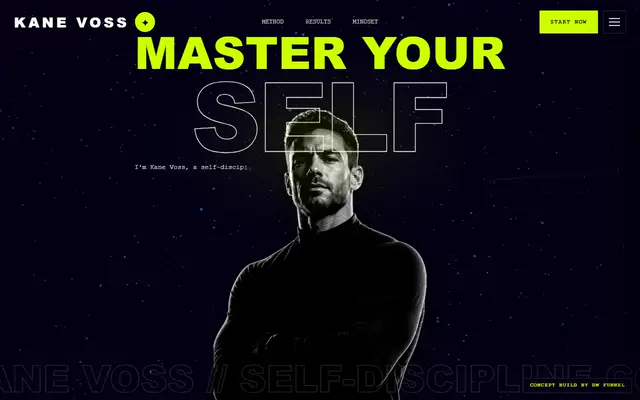
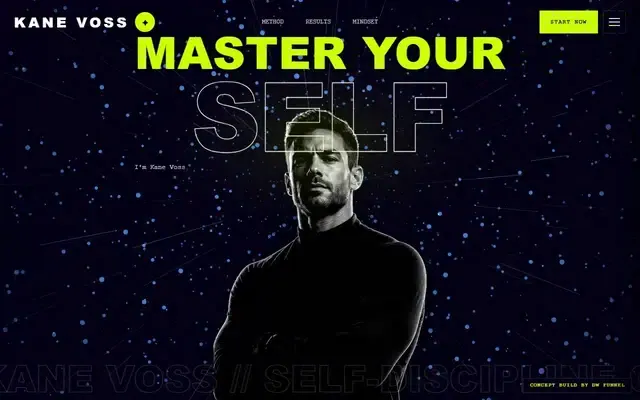
perf: poster-first work grid with max 3 live WebP loops, fix Kane Voss motion
Eight always-on animated previews still fought the page. Cards now start as posters and only the nearest three animate. Kane Voss capture uses a brighter preview mode so the particle field actually reads.

diff --git a/cinema.html b/cinema.html
@@ -1,4 +1,4 @@
-<!DOCTYPE html>
+<!DOCTYPE html>
 <html lang="en">
 <head>
   <meta charset="UTF-8" />
@@ -19,7 +19,7 @@
   <link rel="preload" href="assets/fonts/space-mono-latin-400.woff2" as="font" type="font/woff2" crossorigin />
   <link rel="preload" href="assets/fonts/space-mono-latin-700.woff2" as="font" type="font/woff2" crossorigin />
   <link rel="preload" href="assets/images/hero/poster-1280.webp" as="image" type="image/webp" />
-  <link rel="stylesheet" href="assets/css/cinema.css?v=85" />
+  <link rel="stylesheet" href="assets/css/cinema.css?v=86" />
 </head>
 <body>
   <canvas class="webgl-atmosphere" id="webgl-atmosphere" aria-hidden="true"></canvas>
@@ -165,25 +165,25 @@
       <div class="work-grid" aria-label="Selected work">
             <figure class="work-card">
               <a class="work-card__link" href="/demos/auren.html" target="_blank" rel="noopener" aria-label="Open the AUREN live demo in a new tab">
-                <div class="work-card__screen ws--embed"><span class="ws-chrome"><i></i><i></i><i></i></span><span class="work-card__live">Live site</span><img class="ws-embed-preview" src="/assets/demos/previews/auren.webp" data-poster="/assets/demos/previews/auren-poster.webp" alt="" width="640" height="400" loading="lazy" decoding="async" aria-hidden="true"></div>
+                <div class="work-card__screen ws--embed"><span class="ws-chrome"><i></i><i></i><i></i></span><span class="work-card__live">Live site</span><img class="ws-embed-preview" src="/assets/demos/previews/auren-poster.webp" data-anim="/assets/demos/previews/auren.webp" data-poster="/assets/demos/previews/auren-poster.webp" alt="" width="640" height="400" loading="lazy" decoding="async" aria-hidden="true"></div>
               </a>
               <figcaption><strong>AUREN</strong><span>Haute Horlogerie &middot; Brand Site</span><em>A cinematic hero that earns the price tag.</em></figcaption>
             </figure>
             <figure class="work-card">
               <a class="work-card__link" href="/demos/harbour.html" target="_blank" rel="noopener" aria-label="Open the Harbour Smile Dental Studio live demo in a new tab">
-                <div class="work-card__screen ws--embed"><span class="ws-chrome"><i></i><i></i><i></i></span><span class="work-card__live">Live site</span><img class="ws-embed-preview" src="/assets/demos/previews/harbour.webp" data-poster="/assets/demos/previews/harbour-poster.webp" alt="" width="640" height="400" loading="lazy" decoding="async" aria-hidden="true"></div>
+                <div class="work-card__screen ws--embed"><span class="ws-chrome"><i></i><i></i><i></i></span><span class="work-card__live">Live site</span><img class="ws-embed-preview" src="/assets/demos/previews/harbour-poster.webp" data-anim="/assets/demos/previews/harbour.webp" data-poster="/assets/demos/previews/harbour-poster.webp" alt="" width="640" height="400" loading="lazy" decoding="async" aria-hidden="true"></div>
               </a>
               <figcaption><strong>Harbour Smile</strong><span>Cosmetic Dentistry &middot; Landing Page</span><em>A boutique clinic that unfolds on arrival.</em></figcaption>
             </figure>
             <figure class="work-card">
               <a class="work-card__link" href="/demos/aurelia.html" target="_blank" rel="noopener" aria-label="Open the Aurelia live demo in a new tab">
-                <div class="work-card__screen ws--embed"><span class="ws-chrome"><i></i><i></i><i></i></span><span class="work-card__live">Live site</span><img class="ws-embed-preview" src="/assets/demos/previews/aurelia.webp" data-poster="/assets/demos/previews/aurelia-poster.webp" alt="" width="640" height="400" loading="lazy" decoding="async" aria-hidden="true"></div>
+                <div class="work-card__screen ws--embed"><span class="ws-chrome"><i></i><i></i><i></i></span><span class="work-card__live">Live site</span><img class="ws-embed-preview" src="/assets/demos/previews/aurelia-poster.webp" data-anim="/assets/demos/previews/aurelia.webp" data-poster="/assets/demos/previews/aurelia-poster.webp" alt="" width="640" height="400" loading="lazy" decoding="async" aria-hidden="true"></div>
               </a>
               <figcaption><strong>Aurelia</strong><span>Luxury Real Estate &middot; Website</span><em>A private house for rare addresses.</em></figcaption>
             </figure>
             <figure class="work-card">
               <a class="work-card__link" href="/demos/kanevoss.html" target="_blank" rel="noopener" aria-label="Open the Kane Voss live demo in a new tab">
-                <div class="work-card__screen ws--embed"><span class="ws-chrome"><i></i><i></i><i></i></span><span class="work-card__live">Live site</span><img class="ws-embed-preview" src="/assets/demos/previews/kanevoss.webp" data-poster="/assets/demos/previews/kanevoss-poster.webp" alt="" width="640" height="400" loading="lazy" decoding="async" aria-hidden="true"></div>
+                <div class="work-card__screen ws--embed"><span class="ws-chrome"><i></i><i></i><i></i></span><span class="work-card__live">Live site</span><img class="ws-embed-preview" src="/assets/demos/previews/kanevoss-poster.webp" data-anim="/assets/demos/previews/kanevoss.webp" data-poster="/assets/demos/previews/kanevoss-poster.webp" alt="" width="640" height="400" loading="lazy" decoding="async" aria-hidden="true"></div>
               </a>
               <figcaption><strong>Kane Voss</strong><span>Discipline Coaching &middot; Sales Funnel</span><em>A reactive particle field, always in motion.</em></figcaption>
             </figure>
@@ -193,25 +193,25 @@
             </figure>
             <figure class="work-card">
               <a class="work-card__link" href="/demos/lexis.html" target="_blank" rel="noopener" aria-label="Open the LEXIS live demo in a new tab">
-                <div class="work-card__screen ws--embed"><span class="ws-chrome"><i></i><i></i><i></i></span><span class="work-card__live">Live site</span><img class="ws-embed-preview" src="/assets/demos/previews/lexis.webp" data-poster="/assets/demos/previews/lexis-poster.webp" alt="" width="640" height="400" loading="lazy" decoding="async" aria-hidden="true"></div>
+                <div class="work-card__screen ws--embed"><span class="ws-chrome"><i></i><i></i><i></i></span><span class="work-card__live">Live site</span><img class="ws-embed-preview" src="/assets/demos/previews/lexis-poster.webp" data-anim="/assets/demos/previews/lexis.webp" data-poster="/assets/demos/previews/lexis-poster.webp" alt="" width="640" height="400" loading="lazy" decoding="async" aria-hidden="true"></div>
               </a>
               <figcaption><strong>LEXIS</strong><span>Performance Footwear &middot; Storefront</span><em>A running brand you can shop end to end.</em></figcaption>
             </figure>
             <figure class="work-card">
               <a class="work-card__link" href="/demos/verde.html" target="_blank" rel="noopener" aria-label="Open the Verde live demo in a new tab">
-                <div class="work-card__screen ws--embed"><span class="ws-chrome"><i></i><i></i><i></i></span><span class="work-card__live">Live site</span><img class="ws-embed-preview" src="/assets/demos/previews/verde.webp" data-poster="/assets/demos/previews/verde-poster.webp" alt="" width="640" height="400" loading="lazy" decoding="async" aria-hidden="true"></div>
+                <div class="work-card__screen ws--embed"><span class="ws-chrome"><i></i><i></i><i></i></span><span class="work-card__live">Live site</span><img class="ws-embed-preview" src="/assets/demos/previews/verde-poster.webp" data-anim="/assets/demos/previews/verde.webp" data-poster="/assets/demos/previews/verde-poster.webp" alt="" width="640" height="400" loading="lazy" decoding="async" aria-hidden="true"></div>
               </a>
               <figcaption><strong>Verde</strong><span>Botanical Soda &middot; Launch Site</span><em>Click in, spin the can, switch the flavor.</em></figcaption>
             </figure>
             <figure class="work-card">
               <a class="work-card__link" href="/demos/toybomb.html" target="_blank" rel="noopener" aria-label="Open the TOYBOMB live demo in a new tab">
-                <div class="work-card__screen ws--embed"><span class="ws-chrome"><i></i><i></i><i></i></span><span class="work-card__live">Live site</span><img class="ws-embed-preview" src="/assets/demos/previews/toybomb.webp" data-poster="/assets/demos/previews/toybomb-poster.webp" alt="" width="640" height="400" loading="lazy" decoding="async" aria-hidden="true"></div>
+                <div class="work-card__screen ws--embed"><span class="ws-chrome"><i></i><i></i><i></i></span><span class="work-card__live">Live site</span><img class="ws-embed-preview" src="/assets/demos/previews/toybomb-poster.webp" data-anim="/assets/demos/previews/toybomb.webp" data-poster="/assets/demos/previews/toybomb-poster.webp" alt="" width="640" height="400" loading="lazy" decoding="async" aria-hidden="true"></div>
               </a>
               <figcaption><strong>TOYBOMB</strong><span>Designer Collectibles &middot; Drop Site</span><em>Flip through the drop, watch the world recolor.</em></figcaption>
             </figure>
             <figure class="work-card">
               <a class="work-card__link" href="/demos/elowen.html" target="_blank" rel="noopener" aria-label="Open the Elowen live demo in a new tab">
-                <div class="work-card__screen ws--embed"><span class="ws-chrome"><i></i><i></i><i></i></span><span class="work-card__live">Live site</span><img class="ws-embed-preview" src="/assets/demos/previews/elowen.webp" data-poster="/assets/demos/previews/elowen-poster.webp" alt="" width="640" height="400" loading="lazy" decoding="async" aria-hidden="true"></div>
+                <div class="work-card__screen ws--embed"><span class="ws-chrome"><i></i><i></i><i></i></span><span class="work-card__live">Live site</span><img class="ws-embed-preview" src="/assets/demos/previews/elowen-poster.webp" data-anim="/assets/demos/previews/elowen.webp" data-poster="/assets/demos/previews/elowen-poster.webp" alt="" width="640" height="400" loading="lazy" decoding="async" aria-hidden="true"></div>
               </a>
               <figcaption><strong>Elowen</strong><span>Boutique Stays &middot; Booking Site</span><em>An ambient film hero for a nature escape.</em></figcaption>
             </figure>
@@ -383,6 +383,6 @@
   <!-- r160 is the last three.js release that ships a UMD build (window.THREE) -->
   <script src="https://cdn.jsdelivr.net/npm/three@0.160.1/build/three.min.js"></script>
   <script src="https://unpkg.com/lenis@1.1.14/dist/lenis.min.js"></script>
-  <script type="module" src="assets/js/cinema-app.js?v=85"></script>
+  <script type="module" src="assets/js/cinema-app.js?v=86"></script>
 </body>
 </html>

diff --git a/demos/kanevoss.html b/demos/kanevoss.html
@@ -329,8 +329,15 @@ textarea{min-height:112px;resize:vertical}
   const ctx = canvas.getContext("2d", { alpha:true });
   const reduced = matchMedia("(prefers-reduced-motion: reduce)").matches;
   const embed = new URLSearchParams(location.search).has("embed");
+  // preview=1 is only for Selected Work clip capture: faster + brighter so the
+  // particle field still reads after 640px WebP compression.
+  const preview = new URLSearchParams(location.search).has("preview");
   const particleCount = embed ? 520 : (innerWidth < 760 ? 650 : 1800);
   const lineCount = embed ? 70 : (innerWidth < 760 ? 90 : 260);
+  const speedMul = preview ? 5.5 : 1;
+  const sizeMul = preview ? 2.1 : 1;
+  const alphaMul = preview ? 2.4 : 1;
+  const mouseRadius = preview ? 220 : 120;
   let w=0,h=0,dpr=1,cx=0,cy=0;
   let mouseX=0,mouseY=0,mouseActive=false;
   const particles=[];
@@ -346,8 +353,8 @@ textarea{min-height:112px;resize:vertical}
       z:Math.random(),
       baseX:Math.cos(a)*r,
       baseY:Math.sin(a)*r*.62,
-      size:.25+Math.random()*1.35,
-      speed:.0006+Math.random()*.0018
+      size:(.25+Math.random()*1.35)*sizeMul,
+      speed:(.0006+Math.random()*.0018)*speedMul
     };
   }
 
@@ -358,7 +365,7 @@ textarea{min-height:112px;resize:vertical}
       r:20+Math.pow(Math.random(),.65)*Math.max(innerWidth,innerHeight)*.62,
       z:Math.random(),
       len:20+Math.random()*160,
-      speed:.002+Math.random()*.004
+      speed:(.002+Math.random()*.004)*speedMul
     };
   }
 
@@ -394,11 +401,11 @@ textarea{min-height:112px;resize:vertical}
       const y=cy+Math.sin(l.a)*l.r*.62*scale;
       const ex=cx+Math.cos(l.a)*(l.r+l.len)*scale;
       const ey=cy+Math.sin(l.a)*(l.r+l.len)*.62*scale;
-      const alpha=.018+l.z*.13;
+      const alpha=(.018+l.z*.13)*alphaMul;
       ctx.beginPath();
       ctx.moveTo(x,y);ctx.lineTo(ex,ey);
-      ctx.strokeStyle=`rgba(136,170,255,${alpha})`;
-      ctx.lineWidth=Math.max(.25,l.z*.85);
+      ctx.strokeStyle=`rgba(136,170,255,${Math.min(alpha,.55)})`;
+      ctx.lineWidth=Math.max(.25,l.z*.85)*(preview?1.6:1);
       ctx.stroke();
     }
 
@@ -415,11 +422,11 @@ textarea{min-height:112px;resize:vertical}
       if(mouseActive) {
         const dx=x-mouseX,dy=y-mouseY;
         const dist=Math.hypot(dx,dy);
-        if(dist<120) {
-          const force=(120-dist)*.04;
+        if(dist<mouseRadius) {
+          const force=(mouseRadius-dist)*(preview ? 0.07 : 0.04);
           p.x+=dx/(dist||1)*force;
           p.y+=dy/(dist||1)*force;
-          acid=Math.min((1-dist/120)*.4,.4);
+          acid=Math.min((1-dist/mouseRadius)*(preview ? 0.75 : 0.4), preview ? 0.75 : 0.4);
         }
       }
       p.x+=(p.baseX-p.x)*.028;
@@ -428,9 +435,9 @@ textarea{min-height:112px;resize:vertical}
       x=cx+p.x*scale;
       y=cy+p.y*scale;
       const radius=p.size*(.35+p.z*1.45);
-      const alpha=.08+p.z*.45;
+      const alpha=Math.min((.08+p.z*.45)*alphaMul,.85);
       if(acid>0) {
-        ctx.fillStyle=`rgba(204,255,0,${Math.min(alpha+acid,.72)})`;
+        ctx.fillStyle=`rgba(204,255,0,${Math.min(alpha+acid,.9)})`;
       } else {
         ctx.fillStyle=`rgba(82,151,255,${alpha})`;
       }

diff --git a/assets/js/cinema-app.js b/assets/js/cinema-app.js
@@ -508,19 +508,76 @@ function initTestimonialWall() {
   });
 }
 
-/* Selected Work grid: previews are animated WebP <img>s (motionsite.ai model).
-   No video play/pause. Data-saver swaps the loop for a static poster. */
+/* Selected Work grid: start on static posters, swap in animated WebP only for
+   cards on screen, and cap how many run at once. Eight animated loops beside
+   Lenis + Three.js still stutter; three concurrent loops stay silky. */
 function initWorkGrid() {
   const grid = document.querySelector(".work-grid");
   if (!grid) return;
   const imgs = Array.from(grid.querySelectorAll("img.ws-embed-preview"));
   if (!imgs.length) return;
   const saveData = navigator.connection && navigator.connection.saveData;
-  if (!saveData) return;
-  imgs.forEach((img) => {
-    const poster = img.getAttribute("data-poster");
-    if (poster) img.src = poster;
-  });
+  if (saveData) return; // posters already in src
+  if (!("IntersectionObserver" in window)) {
+    imgs.forEach((img) => {
+      const anim = img.getAttribute("data-anim");
+      if (anim) img.src = anim;
+    });
+    return;
+  }
+
+  const MAX_LIVE = 3;
+  const visible = new Set();
+  const live = new Set();
+
+  function posterOf(img) {
+    return img.getAttribute("data-poster") || img.currentSrc;
+  }
+  function animOf(img) {
+    return img.getAttribute("data-anim");
+  }
+  function showPoster(img) {
+    const p = posterOf(img);
+    if (p && img.getAttribute("src") !== p) img.src = p;
+    live.delete(img);
+  }
+  function showAnim(img) {
+    const a = animOf(img);
+    if (!a) return;
+    if (img.getAttribute("src") !== a) img.src = a;
+    live.add(img);
+  }
+  function syncLive() {
+    // Prefer cards nearest the viewport center when over the cap.
+    const ranked = Array.from(visible).sort((a, b) => {
+      const ra = a.getBoundingClientRect();
+      const rb = b.getBoundingClientRect();
+      const mid = window.innerHeight * 0.45;
+      const da = Math.abs(ra.top + ra.height / 2 - mid);
+      const db = Math.abs(rb.top + rb.height / 2 - mid);
+      return da - db;
+    });
+    const keep = new Set(ranked.slice(0, MAX_LIVE));
+    live.forEach((img) => {
+      if (!keep.has(img)) showPoster(img);
+    });
+    keep.forEach((img) => showAnim(img));
+  }
+
+  const io = new IntersectionObserver(
+    (entries) => {
+      entries.forEach((e) => {
+        if (e.isIntersecting) visible.add(e.target);
+        else {
+          visible.delete(e.target);
+          showPoster(e.target);
+        }
+      });
+      syncLive();
+    },
+    { rootMargin: "80px 0px", threshold: 0.35 }
+  );
+  imgs.forEach((img) => io.observe(img));
 }
 
 /* Method stack: earlier cards recede (scale + dim) as the next card slides

diff --git a/HANDOFF.md b/HANDOFF.md
@@ -51,7 +51,7 @@ The main page loads: self hosted Space Grotesk/Mono, Google Fonts (Cinzel, Orbit
 
 ## 4. Cache versioning (do not skip)
 
-`cinema.css` and `cinema-app.js` are loaded with `?v=NN`. **Whenever you change either file, bump its version** in `cinema.html` (currently both at `v=85`). The HTML itself is not cache busted, so in the local browser add a throwaway `&cb=NN` to force fresh HTML while testing.
+`cinema.css` and `cinema-app.js` are loaded with `?v=NN`. **Whenever you change either file, bump its version** in `cinema.html` (currently both at `v=86`). The HTML itself is not cache busted, so in the local browser add a throwaway `&cb=NN` to force fresh HTML while testing.
 
 ## 5. The Selected Work grid, how it works
 
@@ -64,7 +64,8 @@ Each live card is:
     <div class="work-card__screen ws--embed">
       <span class="ws-chrome"><i></i><i></i><i></i></span>
       <span class="work-card__live">Live site</span>
-      <img class="ws-embed-preview" src="/assets/demos/previews/<key>.webp"
+      <img class="ws-embed-preview" src="/assets/demos/previews/<key>-poster.webp"
+           data-anim="/assets/demos/previews/<key>.webp"
            data-poster="/assets/demos/previews/<key>-poster.webp"
            alt="" width="640" height="400" loading="lazy" decoding="async" aria-hidden="true">
     </div>
@@ -73,7 +74,7 @@ Each live card is:
 </figure>
 ```
 
-Performance model (this is deliberate, keep it): previews are animated WebP in `<img>`, same approach as motionsite.ai. Image-path decode stays silky with many cards on screen; video elements do not, because each opens a decoder and fights Lenis + Three.js. `loading="lazy"` defers offscreen cards. `initWorkGrid()` only swaps to the static poster when `navigator.connection.saveData` is on. Do not go back to mp4/webm `<video>` for the grid.
+Performance model (this is deliberate, keep it): previews are animated WebP, same approach as motionsite.ai, but cards start on a static poster and only swap to the loop when on screen. At most 3 loops run at once; the rest stay on posters. That keeps the grid silky beside Lenis + Three.js. `initWorkGrid()` owns the swap. Data-saver leaves posters forever. Do not go back to always-on mp4/webm `<video>` for the grid.
 
 The 8 live demos and what each replaced:
 - **AUREN** haute horlogerie (luxury watch), replaced Aurum
